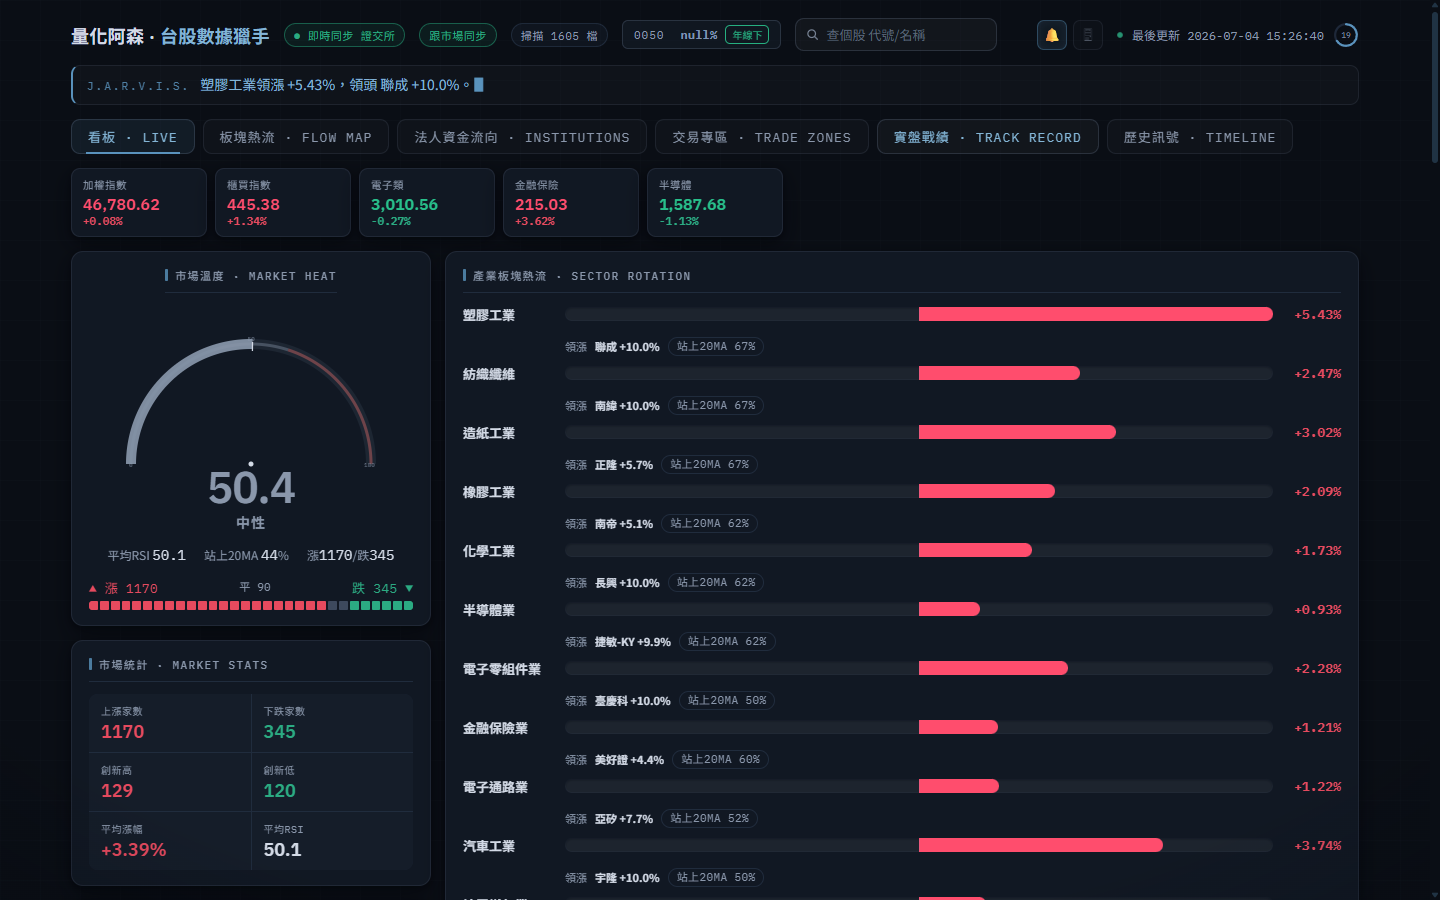
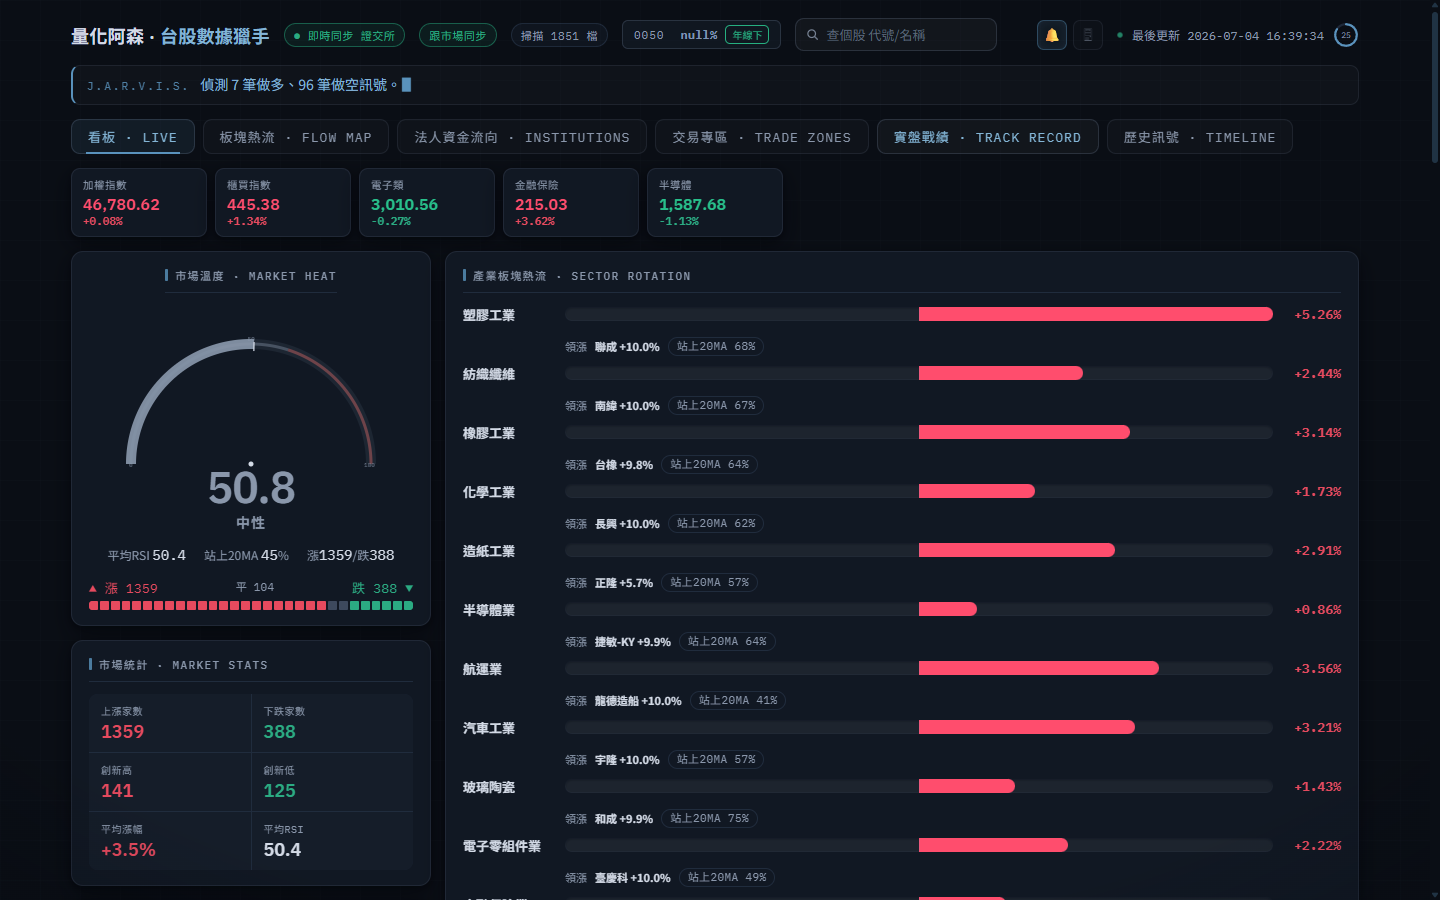
feat: full 1900+ stock coverage via TWSE/TPEX direct API fallback
- twse_price.py: add fetch_tpex_month() + rebuild_missing() with cache_dir param
- prefill_cache.py: two-phase strategy — twstock parallel then TWSE/TPEX direct
- Result: 1925/1925 stocks cached, 1851 scanned (74 suspended/no-history)
- Screenshots updated: 1851 stocks visible

diff --git a/twse_price.py b/twse_price.py
@@ -276,6 +276,120 @@ def _merge_write(code: str, fresh: pd.DataFrame):
     comb.to_csv(path)
 
 
+def fetch_tpex_month(code: str, yyyymmdd: str) -> pd.DataFrame | None:
+    """TPEX 上櫃單檔月線：回傳指定月份的日線 DataFrame(大寫欄位)。"""
+    # 民國年/月 → e.g. 115/07
+    try:
+        y = int(yyyymmdd[:4]) - 1911
+        m = yyyymmdd[4:6]
+        roc = f"{y}/{m}"
+    except Exception:
+        return None
+    url = (f"https://www.tpex.org.tw/web/stock/aftertrading/daily_trading_info/"
+           f"st43_result.php?l=zh-tw&d={urllib.parse.quote(roc)}&stkno={urllib.parse.quote(code)}&s=0,asc,0")
+    try:
+        raw = _get(url)
+        d = json.loads(raw)
+    except Exception:
+        return None
+    rows_data = d.get("aaData") or d.get("data") or []
+    if not rows_data:
+        return None
+    # 欄位: [民國日期, 成交量, 成交金額, 開盤, 最高, 最低, 收盤, 漲跌, 筆數]
+    recs = []
+    for row in rows_data:
+        if len(row) < 7:
+            continue
+        iso = _roc_to_iso(str(row[0]).replace("/", "").replace(" ", ""))
+        if not iso:
+            # 格式可能是 "115/07/01" → strip slashes
+            raw_date = str(row[0]).strip()
+            parts = raw_date.split("/")
+            if len(parts) == 3:
+                try:
+                    yr = int(parts[0]) + 1911
+                    iso = f"{yr:04d}-{parts[1].zfill(2)}-{parts[2].zfill(2)}"
+                except Exception:
+                    continue
+            else:
+                continue
+        c = _num(row[6])
+        if c is None:
+            continue
+        recs.append((iso, _num(row[3]) or c, _num(row[4]) or c,
+                     _num(row[5]) or c, c, _num(row[1]) or 0))
+    if not recs:
+        return None
+    df = pd.DataFrame(recs, columns=["Date"] + _COLS).set_index("Date")
+    df.index = pd.to_datetime(df.index, errors="coerce")
+    df = df[df.index.notna()].sort_index()
+    return df if len(df) else None
+
+
+def rebuild_missing(codes_market: list[tuple[str, str]], months: int = 9,
+                    sleep: float = 0.5, verbose: bool = True,
+                    cache_dir: Path | None = None) -> int:
+    """對沒有快取的股票，依市場選 TWSE/TPEX 直接 API 補歷史，失敗再退 yfinance 個別。
+    codes_market: [(code, market), ...] 其中 market = '上市'|'上櫃'|其他。
+    cache_dir: 快取目錄(預設 CACHE_DIR)。
+    回傳成功數。"""
+    dest = cache_dir or CACHE_DIR
+    dest.mkdir(parents=True, exist_ok=True)
+    today = date.today()
+    yms = []
+    y, m = today.year, today.month
+    for _ in range(months):
+        yms.append(f"{y:04d}{m:02d}01")
+        m -= 1
+        if m == 0:
+            m = 12; y -= 1
+
+    ok = 0
+    for i, (code, market) in enumerate(codes_market, 1):
+        frames = []
+        if market == "上市":
+            for ym in yms:
+                df = fetch_twse_month(code, ym)
+                if df is not None and len(df):
+                    frames.append(df)
+                time.sleep(sleep)
+        else:  # 上櫃 or unknown — try TPEX then yfinance
+            for ym in yms:
+                df = fetch_tpex_month(code, ym)
+                if df is not None and len(df):
+                    frames.append(df)
+                time.sleep(sleep)
+
+        if not frames:
+            # fallback: yfinance 個別
+            try:
+                import yfinance as yf
+                suf = ".TW" if market == "上市" else ".TWO"
+                tkr = yf.Ticker(f"{code}{suf}")
+                hist = tkr.history(period="9mo", auto_adjust=False)
+                if not hist.empty:
+                    hist = hist.rename(columns={"Open": "Open", "High": "High",
+                                                "Low": "Low", "Close": "Close",
+                                                "Volume": "Volume"})
+                    frames = [hist[_COLS]]
+            except Exception:
+                pass
+
+        if frames:
+            allm = pd.concat(frames)
+            allm = allm[~allm.index.duplicated(keep="last")].sort_index()
+            suffix = "_TW.csv" if market == "上市" else "_TWO.csv"
+            path = dest / f"{code}{suffix}"
+            allm[_COLS].to_csv(path)
+            ok += 1
+            tag = f"OK {len(allm)}筆"
+        else:
+            tag = "全失敗"
+        if verbose:
+            print(f"[twse] 補缺 {i}/{len(codes_market)} {code}({market})：{tag}", flush=True)
+    return ok
+
+
 def rebuild_history(codes: list[str], months: int = 9, sleep: float = 0.6) -> int:
     """用 TWSE STOCK_DAY 逐月回補近 months 個月官方日線，覆蓋(修正)既有 yfinance 快取。
     只做上市(.TW)；上櫃單檔另需 TPEX(此版先跳過，仍走既有)。回傳成功檔數。"""

diff --git a/prefill_cache.py b/prefill_cache.py
@@ -1,0 +1,101 @@
+"""Fast parallel cache prefill — 全市場 1900+ 檔
+
+策略(優先序):
+  1. twstock 官方(上市/上櫃皆正確)
+  2. TWSE STOCK_DAY 直接 API(上市)
+  3. TPEX 單檔月線 API(上櫃)
+  4. yfinance 個別 fallback
+
+執行:
+  python prefill_cache.py          # 只補缺的
+  python prefill_cache.py --all    # 強制重抓全部
+  python prefill_cache.py --missing-only  # 僅補 twstock 沒抓到的(Phase 2)
+"""
+from __future__ import annotations
+import sys
+import time
+from pathlib import Path
+from concurrent.futures import ThreadPoolExecutor, as_completed
+
+sys.path.insert(0, str(Path(__file__).resolve().parent))
+
+CACHE_DIR = Path(__file__).resolve().parent / "cache"
+CACHE_DIR.mkdir(exist_ok=True)
+
+import scan
+import twse_price as _tp
+try:
+    import twstock
+    _HAS_TWSTOCK = True
+except ImportError:
+    _HAS_TWSTOCK = False
+
+# ── 取得宇宙清單及市場別 ────────────────────────────────────────────────────
+rows = scan.load_full_universe()
+codes_all = [c for c, _, _ in rows]
+
+def _market(code: str) -> str:
+    if _HAS_TWSTOCK:
+        info = twstock.codes.get(code)
+        if info:
+            return info.market  # '上市' or '上櫃'
+    return "上市"  # default
+
+# ── Phase 1: twstock 並行(速度快，覆蓋率~85%) ─────────────────────────────
+force_all = "--all" in sys.argv
+missing_only = "--missing-only" in sys.argv
+
+existing = {p.stem.split("_")[0] for p in CACHE_DIR.glob("*.csv")}
+
+if missing_only:
+    todo_phase1 = []
+else:
+    todo_phase1 = codes_all if force_all else [c for c in codes_all if c not in existing]
+
+print(f"Total: {len(codes_all)} | Cached: {len(existing)} | Phase-1 todo: {len(todo_phase1)}", flush=True)
+
+written_p1 = 0
+
+def fetch_twstock(code: str) -> bool:
+    try:
+        df = _tp.fetch_twstock_daily(code, months_back=9)
+        if df is not None and len(df) >= 5:
+            mkt = _market(code)
+            suf = "_TW.csv" if mkt == "上市" else "_TWO.csv"
+            df.to_csv(CACHE_DIR / f"{code}{suf}")
+            time.sleep(0.25)
+            return True
+    except Exception:
+        pass
+    time.sleep(0.25)
+    return False
+
+WORKERS = 4
+batch_size = 100
+for i in range(0, len(todo_phase1), batch_size):
+    batch = todo_phase1[i:i + batch_size]
+    with ThreadPoolExecutor(max_workers=WORKERS) as ex:
+        futs = [ex.submit(fetch_twstock, c) for c in batch]
+        for f in as_completed(futs):
+            if f.result():
+                written_p1 += 1
+    total = len({p.stem.split("_")[0] for p in CACHE_DIR.glob("*.csv")})
+    print(f"Phase-1 {i + len(batch)}/{len(todo_phase1)} | cached: {total}", flush=True)
+
+# ── Phase 2: TWSE/TPEX 直接 API 補缺口 ────────────────────────────────────
+existing2 = {p.stem.split("_")[0] for p in CACHE_DIR.glob("*.csv")}
+still_missing = [(c, _market(c)) for c in codes_all if c not in existing2]
+
+print(f"\nPhase-2 補缺: {len(still_missing)} 檔 (TWSE/TPEX 直接 API + yfinance fallback)", flush=True)
+
+if still_missing:
+    written_p2 = _tp.rebuild_missing(still_missing, months=9, sleep=0.5, verbose=True,
+                                     cache_dir=CACHE_DIR)
+    print(f"Phase-2 完成: 補上 {written_p2}/{len(still_missing)} 檔", flush=True)
+else:
+    written_p2 = 0
+    print("Phase-2: 無缺口，略過", flush=True)
+
+# ── 最終統計 ───────────────────────────────────────────────────────────────
+final = len({p.stem.split("_")[0] for p in CACHE_DIR.glob("*.csv")})
+print(f"\nDone. Phase-1新增: {written_p1} | Phase-2補缺: {written_p2} | Total cache: {final}", flush=True)